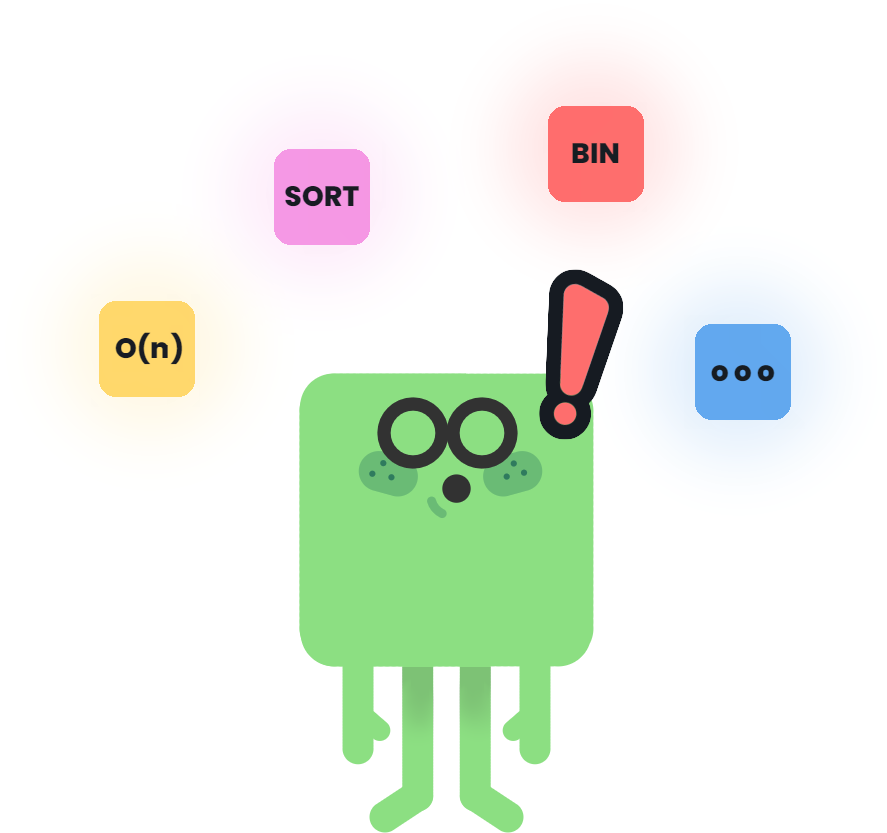
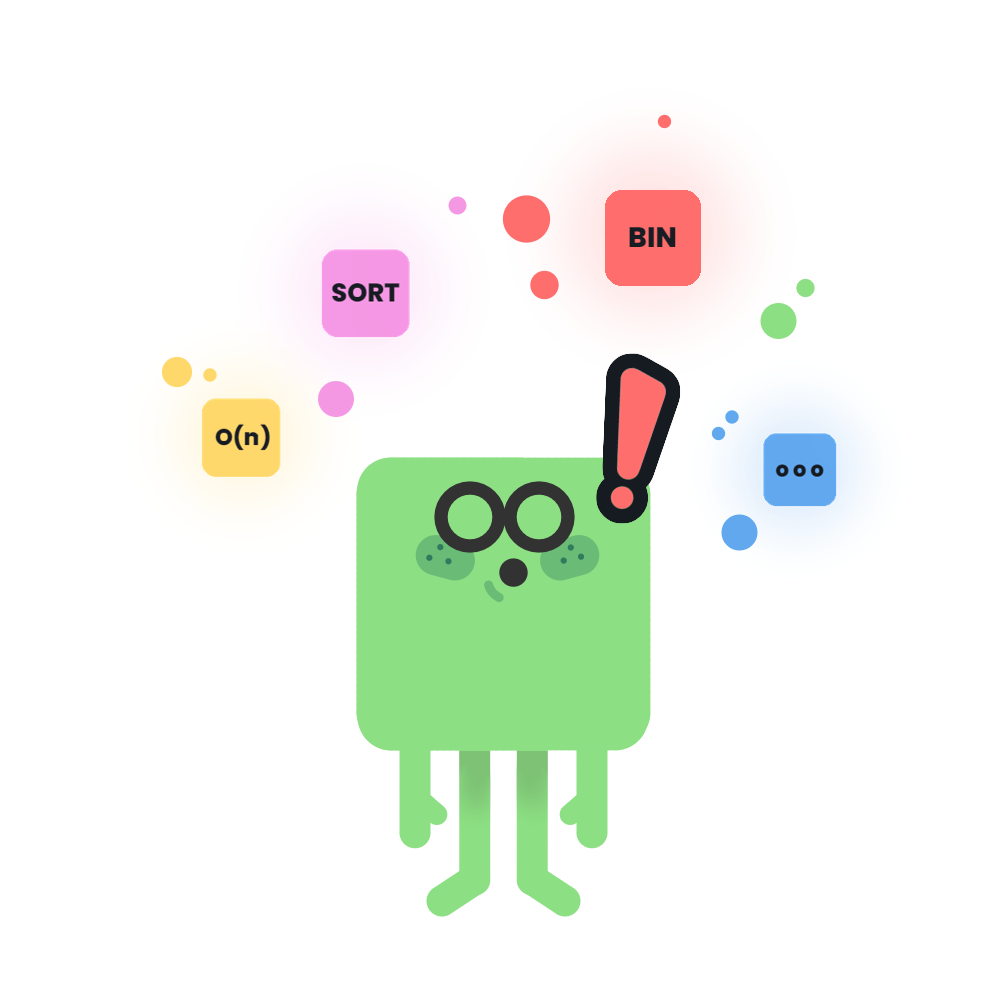
Style: finish redesign of home page

Changed region(s): [[0.0913, 0.0936, 0.9132, 1.0], [0.3044, 0.1561, 0.5784, 0.3433], [0.761, 0.2809, 0.8219, 0.3433]]

diff --git a/index.html b/index.html
@@ -35,49 +35,20 @@
     </head>
     
     <body>
-        
-        <div class="sideBar" id="parallaxPref" onclick="toggleParallax()">
-            <div class="checkBox" id="parallaxCheckbox"></div>
-            <p>Parallax</p>
-        </div>
-        
+   
 
-
-
-        <div style="display:flex;align-items: center;width:80%;margin:auto;justify-content: center;">
-            <div style="max-width: 600px;">
-                <h1 class="bigHeader" style="text-align: left;font-size: 2.5em;">A <span>FREE</span> & <span>FRIENDLY</span> way to learn data structures and algorithms.</h1>
-                <h2 class="subHeader" style="text-align: left;">Free • Open Source • No sign up required</h2>
+        <div id="landingSection">
+            <div id="textSide">
+                <h1 class="bigHeader" style="text-align: left;">A <span>FREE</span> & <span>FRIENDLY</span> way to learn data structures and algorithms.</h1>
+                <p class="subParagraph" style="width:100%;max-width: unset;text-align: left;">AlgoSavvy is a no-cost online platform filled with tutorials and exercises to teach you an extensive spectrum of data structures and algorithms!</p>
+                <div id="tagHolder">
+                    <div class="tags">100% Free</div>
+                    <div class="tags">Beginner Friendly</div>
+                    <div class="tags">Open-source</div>
+                </div>
             </div>
-            <img style="width: 100%;max-width: 600px;" src="assets/homepage/oolala.png">
+            <img src="assets/homepage/oolala.png">
         </div>
-        <!--
-        <div class="floatingWidgetContainer" style="margin-bottom:15px">
-            
-            <div id="floatingWidget1" class="gameModeIcon"><p>O(m)</p></div>
-            <div id="floatingWidget2" class="gameModeIcon"><p>SORT</p></div>
-            <div id="floatingWidget3" class="gameModeIcon" ><p>BIN</p></div>
-            <img id="floatingWidget4" src="assets/logo/alvin64.png" style="width:50px;height:50px;border-radius:10px">
-            <div id="floatingWidget5" class="gameModeIcon"><p>:D</p></div>
-            <div id="floatingWidget6" class="gameModeIcon"><p>TREE</p></div>
-            
-        </div>
-
-
-        <h1 class="bigHeader">A <span>FREE</span> and <span>FRIENDLY</span> way<br>to learn Data Structures and Algorithms.</h1>
-        <h2 class="subHeader">Free • Open Source • No sign up required</h2>
-
-        <div style="height:15vh"></div>
-
-        <div class="floatingWidgetContainer">
-            <div id="floatingWidget7" class="gameModeIcon"><p>BFS</p></div>
-            <div id="floatingWidget8" class="gameModeIcon" style="background:var(--pretty-yellow)"><p>o o o</p></div>
-            <img id="floatingWidget9" src="assets/logo/alvin64.png" style="width:50px;height:50px;border-radius:10px">
-            <div id="floatingWidget10" class="gameModeIcon" style="background:var(--pretty-red)"><p>O(n!)</p></div>
-            <div id="floatingWidget11" class="gameModeIcon" style="background:var(--pretty-green)"><p>? ? ?</p></div>
-            <div id="floatingWidget12" class="gameModeIcon" style="background:var(--light-transp-blue)"><p>o o x</p></div>
-        </div>
-        -->
 
 
         <div class="bigGap"></div>
@@ -91,7 +62,7 @@
 
 
         <h1 class="bigHeader">Learn with <span>TUTORIALS.</span></h1>
-        <h2 class="bigParagraph">From <b>choosing a language</b> to <b>convex hulls</b>, this resource provides friendly tutorials to cover a variety of programming topics.</h2>
+        <p class="subParagraph">From <b>choosing a language</b> to <b>convex hulls</b>, this resource provides friendly tutorials to cover a variety of programming topics.</p>
         
         <a href="contents" class="actionButton">See tutorials</a>
         
@@ -111,7 +82,7 @@
         <div class="bigGap"></div>
 
         <h1 class="bigHeader">Play with <span>GAME MODES.</span></h1>
-        <h2 class="bigParagraph">Four unique game modes built to sharpen your <b>problem solving skills.</b></h2>
+        <p class="subParagraph">Four unique game modes built to sharpen your <b>problem solving skills.</b></p>
 
         <a href="modes" class="actionButton">See game modes</a>
 

diff --git a/styles/light.css b/styles/light.css
@@ -248,9 +248,47 @@ a:hover{
 }
 
 
-/* LANDING PAGE */
+/* HOME PAGE */
+
+/* landing section */
+#landingSection{
+    display:flex;
+    align-items: center;
+    width:80%;
+    margin:auto;
+    justify-content: center;
+}
+
+#landingSection > #textSide{
+    max-width: 600px;
+}
+
+#landingSection img{
+    width: 100%;
+    max-width: 600px;
+}
+
+#tagHolder{
+    display:flex;
+}
+.tags{
+    padding:10px;
+    padding-left: 20px;
+    padding-right: 20px;
+    margin-right: 10px;
+    background:var(--light-transp-blue);
+    color:var(--dark-transp-blue);
+    font-weight: 600;
+    border-radius: 15px;
+    text-align: center;
+    display: grid;
+    align-content: center;
+}
+
+
+/* text */
 .bigHeader{
-    font-size: 3em;
+    font-size: 2.5em;
     margin-bottom: .5em;
     text-align: center;
 }
@@ -268,17 +306,18 @@ a:hover{
     opacity: .2;
 }
 
-.bigParagraph{
-    font-weight: lighter;
+.subParagraph{
+    opacity: .6; 
+    font-size: 18px;
     width: 60%;
     display: block;
-    margin:auto;
+    margin-left:auto;
+    margin-right: auto;
     text-align: center;
     max-width: 700px;
-    opacity: .7;
 }
 
-.bigParagraph b{
+.subParagraph b{
     font-weight: 600;
 }
 
@@ -334,22 +373,21 @@ a:hover{
     padding: 10px;
     padding-left: 15px;
     padding-right: 15px;
-    background: white;
-    border: 2px solid var(--dark-transp-blue);
+    background: var(--light-transp-blue);
+    border: 2px solid transparent;
     border-radius: 15px;
     font-size: 20px;
     font-weight: 600;
     margin: auto;
     display: block;
     margin-top: 50px;
-    color: var(--lighter-font-color);
+    color: var(--dark-transp-blue);
     margin-bottom: 50px;
     width: fit-content;
-    transition:1s;
+    transition:.5s;
 }
 .actionButton:hover{
-    box-shadow: none;
-    border: 2px solid var(--light-transp-blue);
+    border:2px solid var(--light-transp-blue);
     background:var(--bg-light-blue);
     text-decoration: none;
 }
@@ -950,10 +988,23 @@ pre code.hljs {
 
     }
 
-    /* landing page */
-    #parallaxPref{
-        display: none;
+    /* home page */
+    #landingSection{
+        display: block;
+        width: 100%;
     }
+
+    #landingSection > #textSide{
+        width: 80%;
+        margin:auto;
+    }
+
+
+    #landingSection img{
+        margin: auto;
+        display: block;
+    }
+
     .bigHeader{
         font-size:2.4em;
         

diff --git a/scripts/effects/floating-widgets.js b/scripts/effects/floating-widgets.js
@@ -7,23 +7,19 @@ const sp = new ScrollParallax();
 
 
 if(localStorage.getItem("parallax") == "true"){
-    renderCheckBox("parallaxCheckbox",true);
     sp.tracking = true;
 }
 else{
-    renderCheckBox("parallaxCheckbox",false);
     sp.tracking = false;
 }
 
 function toggleParallax(){
     if(localStorage.getItem("parallax") == "true"){
         localStorage.setItem("parallax","false");
-        renderCheckBox("parallaxCheckbox",false);
         sp.tracking = false;
     }
     else{
         localStorage.setItem("parallax","true");
-        renderCheckBox("parallaxCheckbox",true);
         sp.tracking = true;
     }
 }
